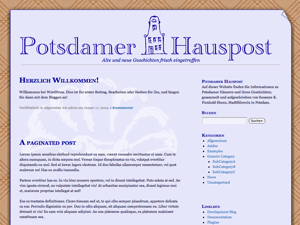
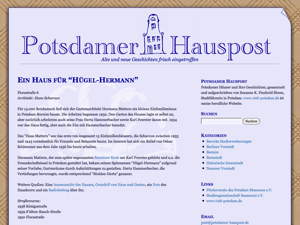
Update for Thematic 0.9: * Import Thematic Classic Child Theme that approximates the look of the original Thematic pre version 0.9 (Hauspost variant was originally designed for Thematic v0.8.1). * Update screenshot.png.
git-svn-id: file:///usr/local/svnrepo/trunk/Websites@1290 7f4514f4-2553-e14a-957f-d3ec9a2c603d

Changed region(s): [[0.0, 0.0, 1.0, 1.0], [0.66, 0.5911, 0.9, 1.0], [0.66, 0.4978, 0.9, 0.56]]

diff --git a/style.css b/style.css
@@ -1,7 +1,7 @@
 /*
 Theme Name: Thematic Hauspost
 Theme URI: http://www.potsdamer-hauspost.de
-Description: Hauspost-Themelet auf der Basis von Thematic 0.8.1
+Description: Hauspost-Themelet auf der Basis von Thematic Classic
 Author: $Author$
 Author URI: 
 Template: thematic
@@ -32,8 +32,10 @@ $Date$
 /* Apply basic image styles */
 @import url('../thematic/library/styles/images.css');
 
-/* Apply default theme styles and colors (overrides below) */
-@import url('../thematic/library/styles/default.css');
+/* Apply Thematic Classic theme styles and colors (overrides below) */
+@import url('../thematic/library/styles/classic.css');
+/* Classic Child Theme approximates the look of the original Thematic,
+   pre version 0.9. (Potsdamer Hauspost was designed for v0.8.1)    */
 
 /* Prepare theme for plugins */
 @import url('../thematic/library/styles/plugins.css');
